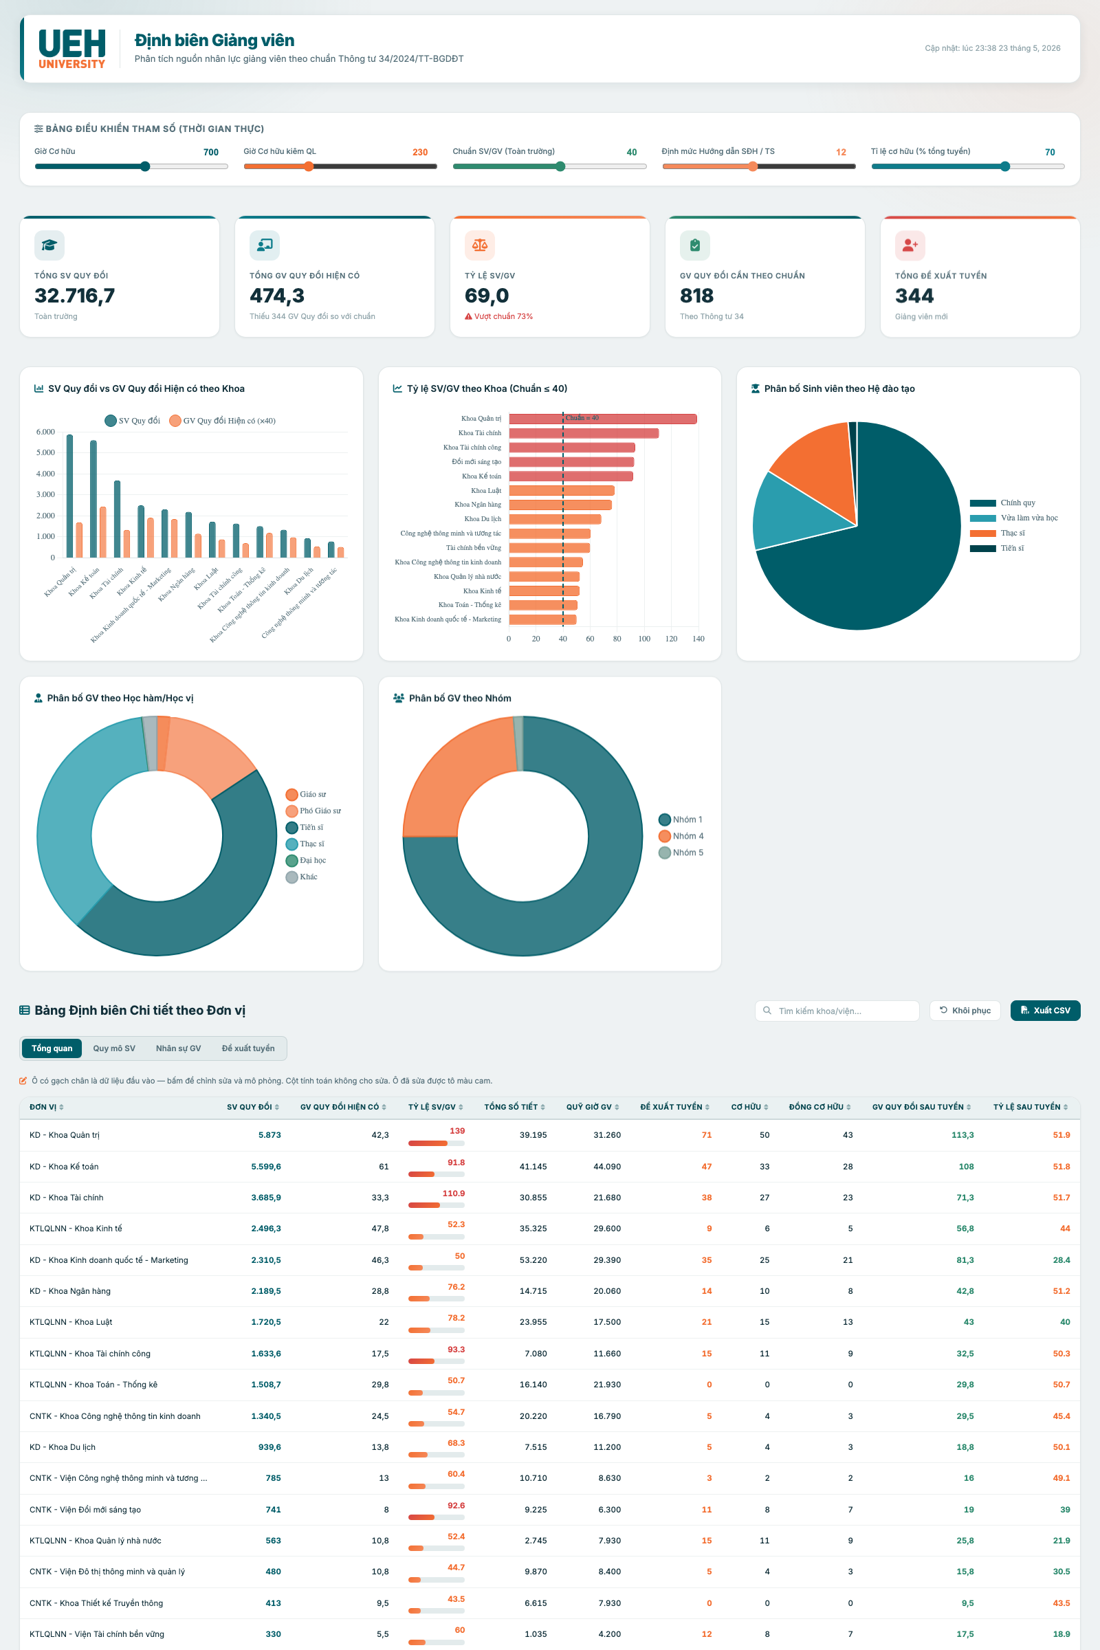
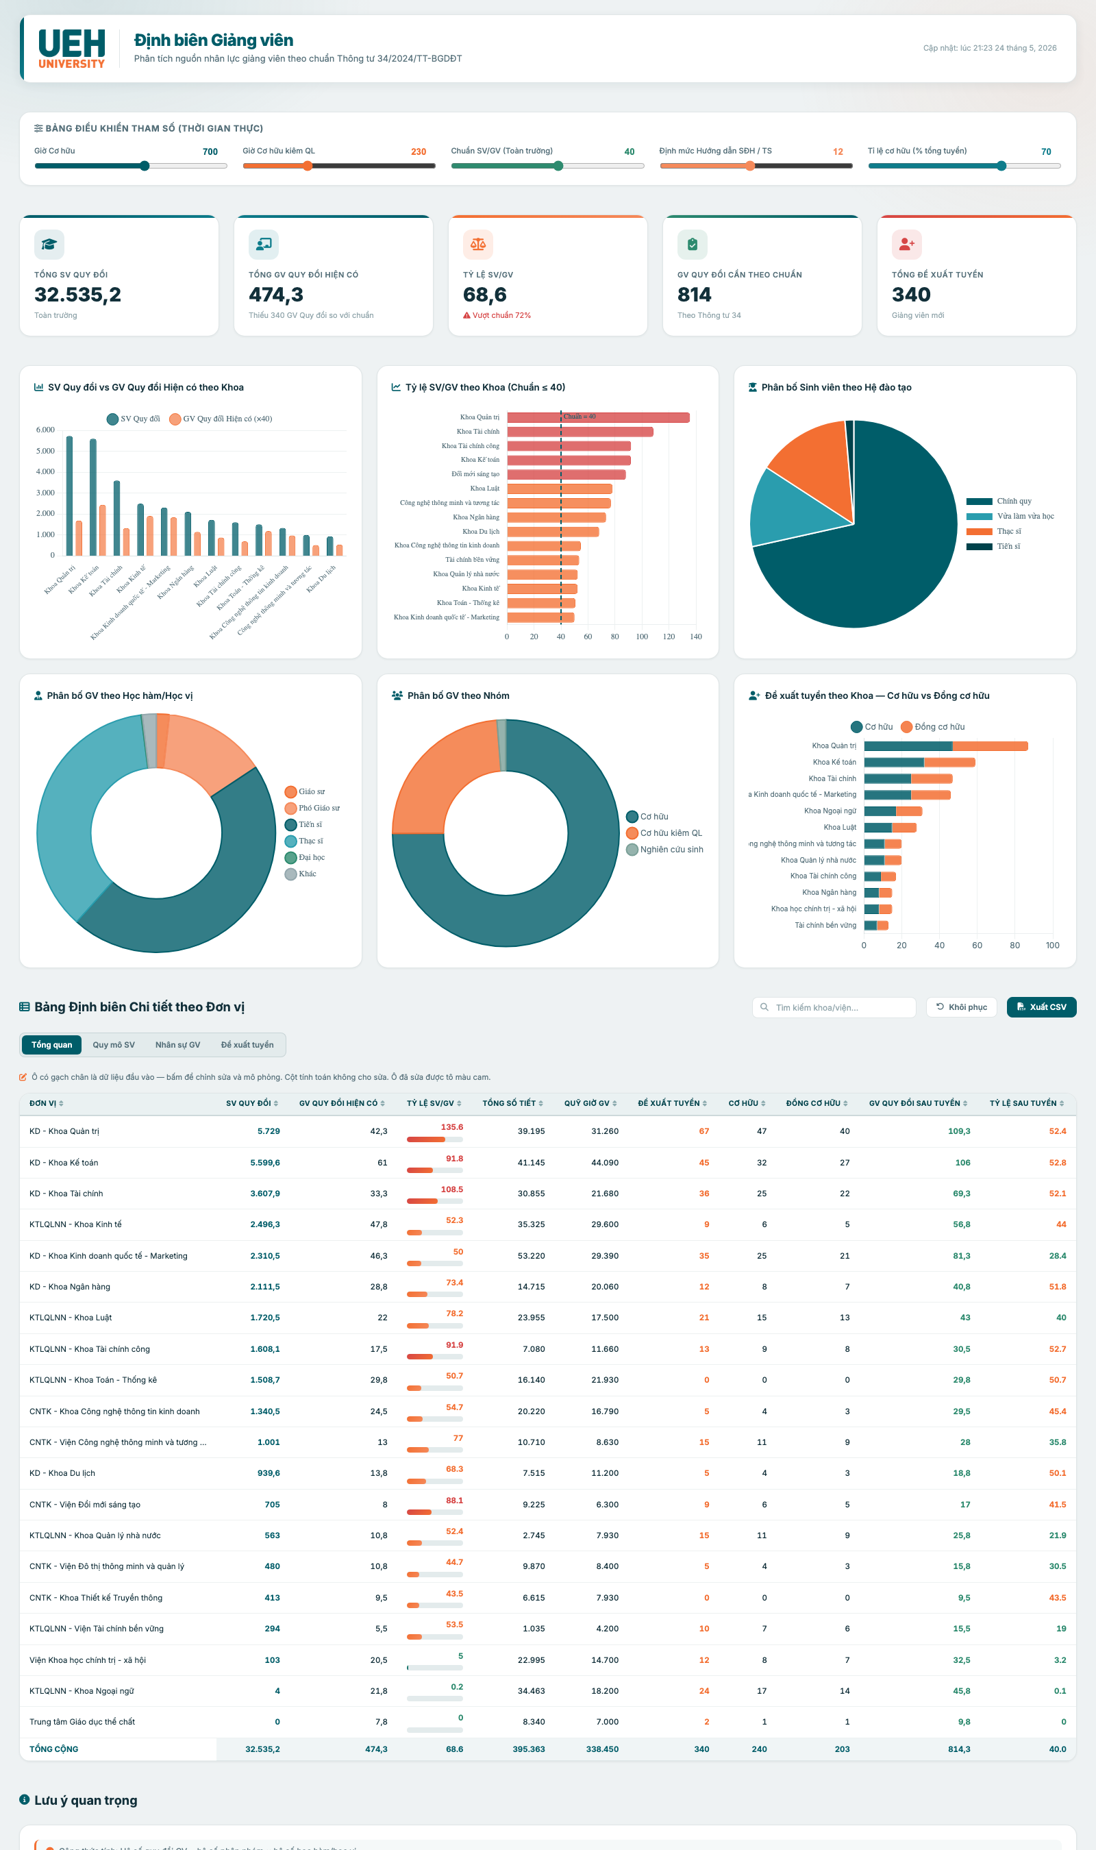
Add files via upload

diff --git a/app.js b/app.js
@@ -237,6 +237,7 @@ function renderCharts() {
   renderHeDaoTaoChart();
   renderHocHamChart();
   renderNhomChart();
+  renderRecruitmentSplitChart();
 }
 
 function renderBarChart() {
@@ -462,6 +463,78 @@ function renderNhomChart() {
               return [`${ctx.label}: ${ctx.raw} (${pct}%)`, desc];
             }
           }
+        }
+      }
+    }
+  });
+}
+
+function renderRecruitmentSplitChart() {
+  const ctx = document.getElementById('chart-recruitment-split').getContext('2d');
+
+  // Lọc khoa có đề xuất tuyển > 0, sắp xếp giảm dần, top 12
+  const sorted = [...DATA.khoa_data]
+    .filter(k => (k.tong_de_xuat || 0) > 0)
+    .sort((a, b) => (b.tong_de_xuat || 0) - (a.tong_de_xuat || 0))
+    .slice(0, 12);
+
+  const labels = sorted.map(k => shortenName(k.don_vi));
+  const coHuu = sorted.map(k => k.de_xuat_co_huu || 0);
+  const dongCoHuu = sorted.map(k => k.de_xuat_dong_co_huu || 0);
+
+  if (chartInstances.recruitmentSplit) chartInstances.recruitmentSplit.destroy();
+  chartInstances.recruitmentSplit = new Chart(ctx, {
+    type: 'bar',
+    data: {
+      labels,
+      datasets: [
+        {
+          label: 'Cơ hữu',
+          data: coHuu,
+          backgroundColor: 'rgba(0, 93, 105, 0.85)',
+          borderColor: 'rgba(0, 93, 105, 1)',
+          borderWidth: 1,
+          borderRadius: 4,
+          barPercentage: 0.75,
+        },
+        {
+          label: 'Đồng cơ hữu',
+          data: dongCoHuu,
+          backgroundColor: 'rgba(243, 111, 50, 0.85)',
+          borderColor: 'rgba(243, 111, 50, 1)',
+          borderWidth: 1,
+          borderRadius: 4,
+          barPercentage: 0.75,
+        },
+      ]
+    },
+    options: {
+      indexAxis: 'y',
+      responsive: true,
+      maintainAspectRatio: false,
+      plugins: {
+        legend: { position: 'top', labels: { padding: 14, usePointStyle: true } },
+        tooltip: {
+          callbacks: {
+            label: (ctx) => `${ctx.dataset.label}: ${ctx.raw} người`,
+            footer: (items) => {
+              const total = items.reduce((s, i) => s + (i.raw || 0), 0);
+              return `Tổng tuyển: ${total} người`;
+            }
+          }
+        }
+      },
+      scales: {
+        x: {
+          stacked: true,
+          beginAtZero: true,
+          grid: { color: 'rgba(0,50,58,0.07)' },
+          ticks: { precision: 0 }
+        },
+        y: {
+          stacked: true,
+          grid: { display: false },
+          ticks: { font: { size: 10 } }
         }
       }
     }

diff --git a/index.html b/index.html
@@ -138,6 +138,10 @@
         <div class="chart-title"><i class="fa-solid fa-users"></i> Phân bố GV theo Nhóm</div>
         <canvas id="chart-nhom"></canvas>
       </div>
+      <div class="chart-container animate-in">
+        <div class="chart-title"><i class="fa-solid fa-user-plus"></i> Đề xuất tuyển theo Khoa — Cơ hữu vs Đồng cơ hữu</div>
+        <canvas id="chart-recruitment-split"></canvas>
+      </div>
     </section>
 
     <!-- Main Data Table -->

diff --git a/MOTA-MAPPING-DU-LIEU.md b/MOTA-MAPPING-DU-LIEU.md
@@ -1,6 +1,7 @@
 # Mô tả dữ liệu và Mapping
 
-> Tất cả file dưới đây đều có link mở xem trực tiếp trên Google Sheets.
+> Tất cả file dưới đây có link mở xem trực tiếp trên Google Sheets.
+> **Truy cập bằng email UEH** (`@ueh.edu.vn`) để được cấp quyền xem.
 
 ## 1. Tổng quan dữ liệu đầu vào
 
@@ -32,9 +33,11 @@
 
 ---
 
-## 3. Mapping chi tiết từng file
+## 3. Xử lý dữ liệu
 
-### `01-quymo-sinhvien-dh.xlsx` → sheet **Quy mô sinh viên**
+### 3.1. Mapping chi tiết từng file
+
+#### `01-quymo-sinhvien-dh.xlsx` → sheet **Quy mô sinh viên**
 
 | Cột nguồn | Cột đích | Phép biến đổi |
 |---|---|---|
@@ -45,7 +48,7 @@
 
 **Lưu ý:** bỏ dòng cuối `CỘNG` của file nguồn để tránh tính trùng tổng.
 
-### `02-hocphan-sotiet-2025.xlsx` + `03-monhoc-khoa-phutrach.xlsx` → sheet **Phụ lục 2. DS môn học 2025**
+#### `02-hocphan-sotiet-2025.xlsx` + `03-monhoc-khoa-phutrach.xlsx` → sheet **Phụ lục 2. DS môn học 2025**
 
 | Cột nguồn (file) | Cột đích | Phép biến đổi |
 |---|---|---|
@@ -53,13 +56,13 @@
 | `03`: Khoa (lookup theo Mã HP) | Đơn vị phụ trách | Join với 02 trên `Mã HP`. File 03 đã có tên canonical sẵn. |
 | (suy luận) | Ghi chú | Tự gắn `"Tính định biên"` nếu Đơn vị là Khoa / Viện / Trung tâm / Phòng dạy học; trừ admin (Ban GH, Văn phòng, Phòng Chăm sóc). |
 
-### `04-ctdt-co-phankhoa.xlsx` → sheet **Chuongtrinhdaotao**
+#### `04-ctdt-co-phankhoa.xlsx` → sheet **Chuongtrinhdaotao**
 
 | Cột nguồn | Cột đích | Phép biến đổi |
 |---|---|---|
 | Stt, Mã chương trình, Tên chương trình, Mã ngành, Tên ngành, Lĩnh vực, Trường thành viên, Khoa/Viện, Năm tuyển sinh, Trình độ, Loại hình, Hình thức đào tạo | 13 cột tương ứng | Sao chép; Khoa/Viện chuẩn hoá về canonical |
 
-### `06-hocvien-ncs-sdh.xlsx` + `04-ctdt-co-phankhoa.xlsx` → sheet **Quy mô SĐH**
+#### `06-hocvien-ncs-sdh.xlsx` + `04-ctdt-co-phankhoa.xlsx` → sheet **Quy mô SĐH**
 
 | Cột nguồn (HT_NCS) | Cột đích | Phép biến đổi |
 |---|---|---|
@@ -68,13 +71,13 @@
 | (count) | Quy_mô_ThS, Quy_mô_TS | Đếm số học viên đang học theo (mã ngành × trình độ). |
 | (join với 04 theo mã ngành) | Đơn vị quản lý, Ngành, Số chương trình | Lấy Tên ngành + Khoa/Viện đại diện. |
 
-### `07-quymo-nhansu-gv.xlsx` → sheet **Quy mô giảng viên**
+#### `07-quymo-nhansu-gv.xlsx` → sheet **Quy mô giảng viên**
 
 | Cột nguồn | Cột đích | Phép biến đổi |
 |---|---|---|
 | 22 cột chuẩn (Mã quản lý, Họ tên, … Tình trạng làm việc) | 22 cột tương ứng (giữ format 100%) | Parse số (Mã quản lý, CMND, Năm TN, ĐT); parse ngày (Ngày sinh); parse bool (Giới tính). Mã quản lý chuẩn hoá bỏ đuôi `.0` để join ổn định với 08. |
 
-### `08-donvi-giangday.xlsx` → sheet **Đơn vị giảng dạy**
+#### `08-donvi-giangday.xlsx` → sheet **Đơn vị giảng dạy**
 
 | Cột nguồn | Cột đích | Phép biến đổi |
 |---|---|---|
@@ -82,9 +85,7 @@
 | Mã quản lý | Mã quản lý | Parse int. Khoá join với 07. |
 | Đơn vị giảng dạy | Đơn vị giảng dạy | Sao chép trực tiếp |
 
----
-
-## 4. Bảng tra tên đơn vị (canonical map)
+### 3.2. Bảng tra tên đơn vị (canonical map)
 
 Nhiều file nguồn có tên đơn vị ở dạng ngắn ("Khoa Kế toán"), trong khi format target dùng tên có prefix mã trường thành viên ("KD - Khoa Kế toán"). Pipeline quét file 03 và 08 để xây bảng tra:
 